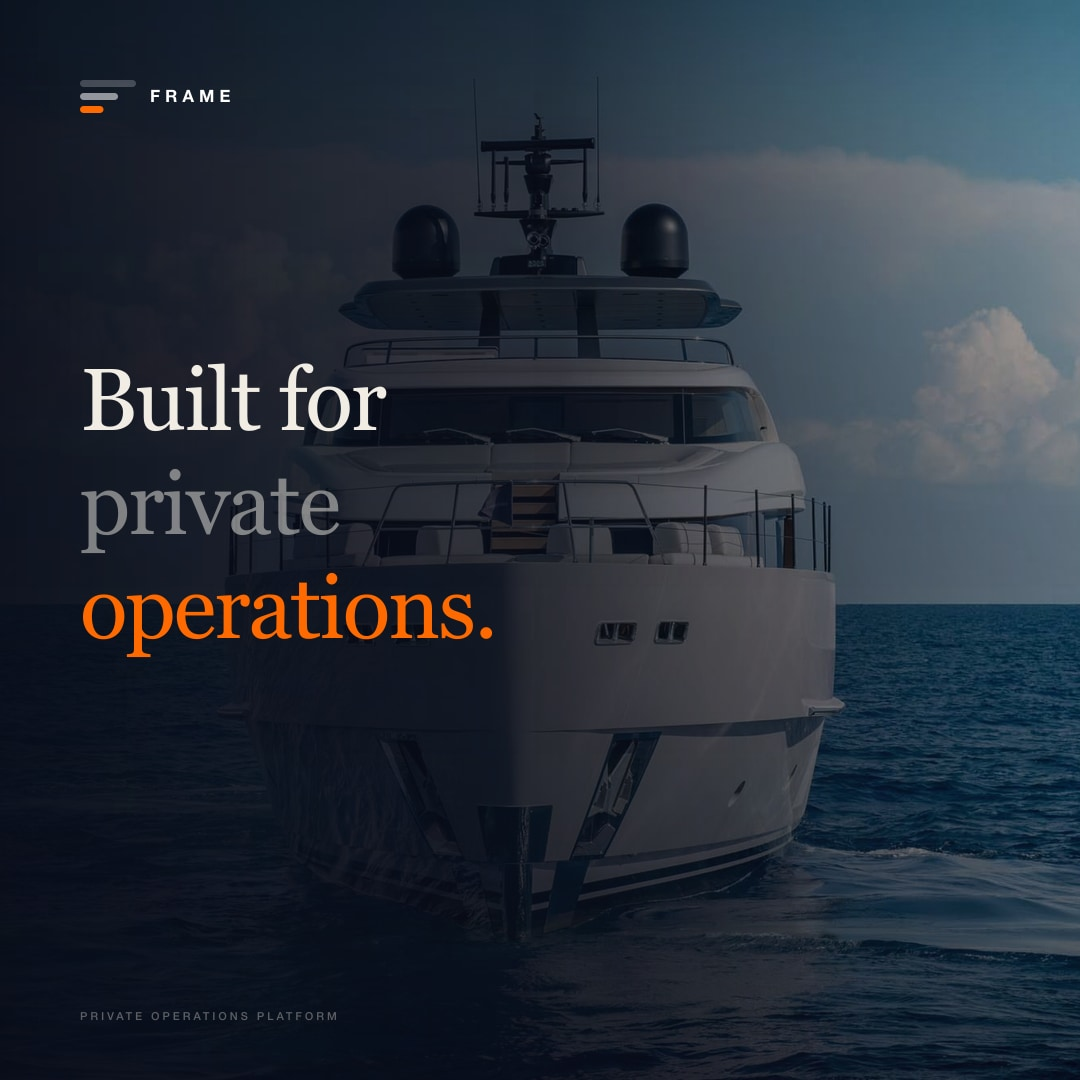
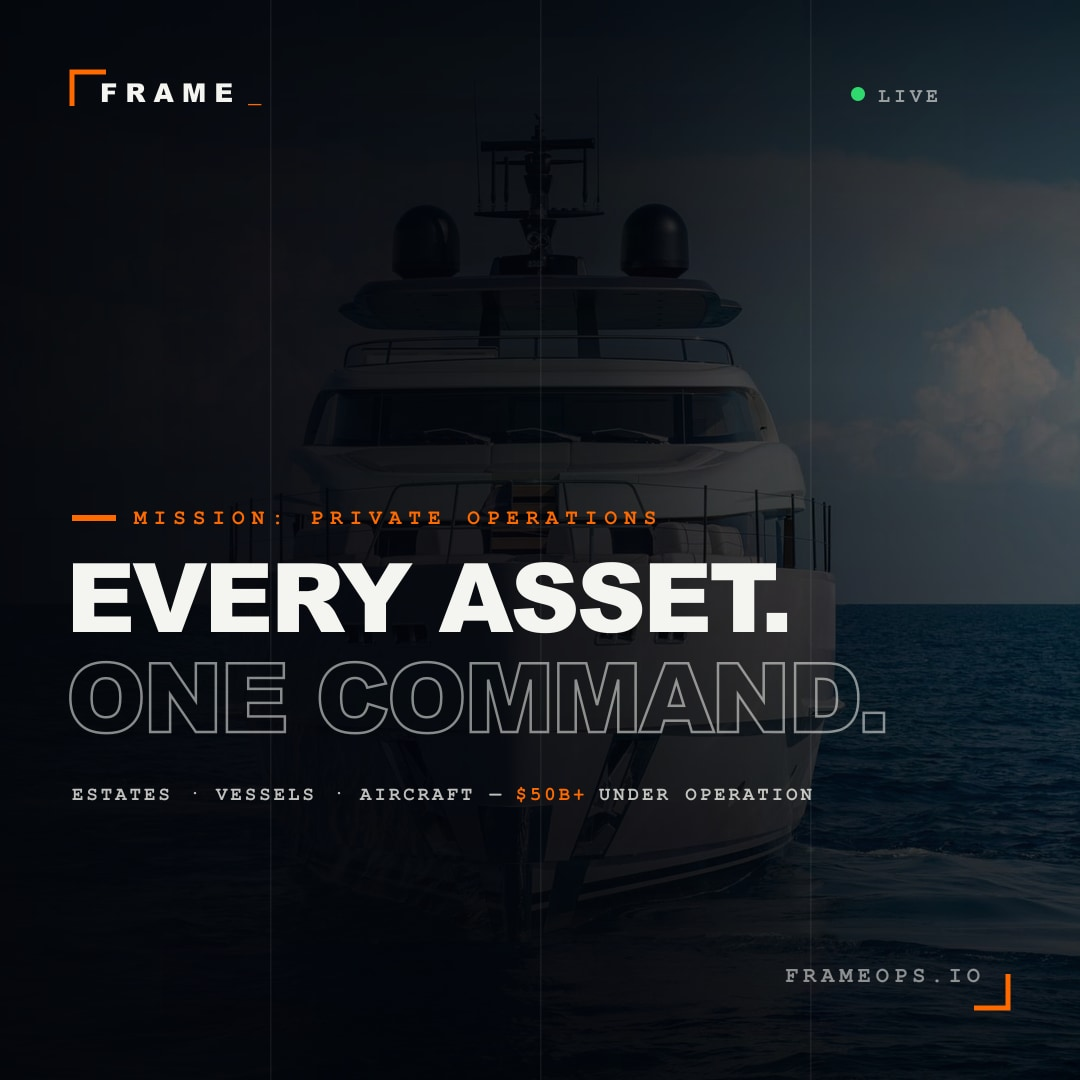
feat: mission control OG images — heavy type, ghost outline, HUD brackets

diff --git a/scripts/generate-og-images.js b/scripts/generate-og-images.js
@@ -1,8 +1,8 @@
 /**
- * Generates OG social images for frameops.io
+ * Generates OG social images for frameops.io — MISSION CONTROL edition
  *
  * Output:
- *   assets/og-image.jpg        1200×630  (Twitter/LinkedIn/Facebook)
+ *   assets/og-image.jpg        1200×630  (Twitter/LinkedIn/Facebook/iMessage)
  *   assets/og-image-square.jpg 1080×1080 (Instagram/profile)
  */
 
@@ -13,42 +13,39 @@ const path  = require('path');
 const ASSETS = path.join(__dirname, '..', 'assets');
 const PHOTO  = path.join(ASSETS, 'sd90-underway.jpeg');
 
-/* ── Brand colours ─────────────────────────────────────── */
-const INK    = '#0A0E1A';
-const PAPER  = '#F1EDE4';
+/* ── Brand colours (mission control) ───────────────────── */
+const VOID   = '#04060B';
+const WHITE  = '#F4F4F0';
 const ORANGE = '#FF6A00';
+const GREEN  = '#2FD96E';
 
-/* ── SVG overlay factory ────────────────────────────────
-   Produces the gradient + F-mark + headline text layer.
-   All measurements are in image-pixels so the result is
-   crisp at every output size.
-────────────────────────────────────────────────────────── */
-function makeSVG(w, h, layout) {
+const DISPLAY = `'Arial Black', 'Helvetica Neue', Arial, sans-serif`;
+const MONO    = `'Courier New', Courier, monospace`;
+
+/* ── SVG overlay factory ────────────────────────────────── */
+function makeSVG(w, h, L) {
   const {
-    mX, mY,             // F-mark top-left
-    mW,                 // F-mark full-bar width (px)
-    mH, mGap,          // bar height, inter-bar gap
-    brandX, brandY,    // FRAME wordmark baseline
-    brandSize,         // wordmark font-size
-    h1Y, h2Y, h3Y,    // headline line baselines
-    headSize,          // headline font-size
-    headTracking,      // headline letter-spacing
-    footY,             // footer label baseline
-    footSize,          // footer font-size
-  } = layout;
+    pad,                  // outer padding
+    eyebrowY, eyebrowSize,
+    h1Y, h2Y, headSize,   // headline baselines + size
+    subY, subSize,        // sub line
+    brandSize,
+  } = L;
+
+  const bracket = 34;     // HUD corner bracket arm length
+  const bStroke = 5;
 
   return Buffer.from(`<svg width="${w}" height="${h}" viewBox="0 0 ${w} ${h}" xmlns="http://www.w3.org/2000/svg">
   <defs>
-    <!-- left → right: deep dark to transparent (text legibility zone) -->
     <linearGradient id="gL" x1="0" y1="0" x2="1" y2="0">
-      <stop offset="0%"   stop-color="${INK}" stop-opacity="0.94"/>
-      <stop offset="52%"  stop-color="${INK}" stop-opacity="0.74"/>
-      <stop offset="100%" stop-color="${INK}" stop-opacity="0.15"/>
+      <stop offset="0%"   stop-color="${VOID}" stop-opacity="0.96"/>
+      <stop offset="55%"  stop-color="${VOID}" stop-opacity="0.80"/>
+      <stop offset="100%" stop-color="${VOID}" stop-opacity="0.30"/>
     </linearGradient>
-    <!-- top → bottom: subtle darkening at base -->
     <linearGradient id="gB" x1="0" y1="0" x2="0" y2="1">
-      <stop offset="0%"   stop-color="${INK}" stop-opacity="0"/>
-      <stop offset="100%" stop-color="${INK}" stop-opacity="0.46"/>
+      <stop offset="0%"   stop-color="${VOID}" stop-opacity="0.55"/>
+      <stop offset="35%"  stop-color="${VOID}" stop-opacity="0"/>
+      <stop offset="100%" stop-color="${VOID}" stop-opacity="0.62"/>
     </linearGradient>
   </defs>
 
@@ -56,38 +53,52 @@ function makeSVG(w, h, layout) {
   <rect width="${w}" height="${h}" fill="url(#gL)"/>
   <rect width="${w}" height="${h}" fill="url(#gB)"/>
 
-  <!-- ── F-mark (3 bars) ── -->
-  <rect x="${mX}" y="${mY}"              width="${mW}"          height="${mH}" rx="${mH/2}" fill="white"       fill-opacity="0.22"/>
-  <rect x="${mX}" y="${mY + mGap}"       width="${mW * 0.68}"   height="${mH}" rx="${mH/2}" fill="white"       fill-opacity="0.55"/>
-  <rect x="${mX}" y="${mY + mGap * 2}"   width="${mW * 0.42}"   height="${mH}" rx="${mH/2}" fill="${ORANGE}"/>
+  <!-- faint vertical gridlines -->
+  <rect x="${w * 0.25}" y="0" width="1.5" height="${h}" fill="white" fill-opacity="0.06"/>
+  <rect x="${w * 0.50}" y="0" width="1.5" height="${h}" fill="white" fill-opacity="0.06"/>
+  <rect x="${w * 0.75}" y="0" width="1.5" height="${h}" fill="white" fill-opacity="0.06"/>
 
-  <!-- ── FRAME wordmark ── -->
-  <text x="${brandX}" y="${brandY}"
-    font-family="'Helvetica Neue', Helvetica, Arial, sans-serif"
-    font-size="${brandSize}" font-weight="700" letter-spacing="${Math.round(brandSize * 0.28)}"
-    fill="white">FRAME</text>
+  <!-- HUD corner brackets -->
+  <path d="M ${pad} ${pad + bracket} V ${pad} H ${pad + bracket}" fill="none" stroke="${ORANGE}" stroke-width="${bStroke}"/>
+  <path d="M ${w - pad - bracket} ${h - pad} H ${w - pad} V ${h - pad - bracket}" fill="none" stroke="${ORANGE}" stroke-width="${bStroke}"/>
 
-  <!-- ── Headline ── -->
-  <text x="${mX}" y="${h1Y}"
-    font-family="Georgia, 'Times New Roman', serif"
-    font-size="${headSize}" font-weight="400" letter-spacing="${headTracking}"
-    fill="${PAPER}">Built for</text>
+  <!-- ── FRAME_ wordmark (top, inside bracket) ── -->
+  <text x="${pad + 28}" y="${pad + 30}"
+    font-family="${DISPLAY}" font-size="${brandSize}" font-weight="900" letter-spacing="${Math.round(brandSize * 0.30)}"
+    fill="${WHITE}">FRAME</text>
+  <text x="${pad + 28 + brandSize * 5.7}" y="${pad + 30}"
+    font-family="${DISPLAY}" font-size="${brandSize}" font-weight="900"
+    fill="${ORANGE}">_</text>
 
-  <text x="${mX}" y="${h2Y}"
-    font-family="Georgia, 'Times New Roman', serif"
-    font-size="${headSize}" font-weight="400" letter-spacing="${headTracking}"
-    fill="rgba(241,237,228,0.50)">private</text>
+  <!-- live dot, top right -->
+  <circle cx="${w - pad - 150}" cy="${pad + 22}" r="7" fill="${GREEN}"/>
+  <text x="${w - pad - 130}" y="${pad + 30}"
+    font-family="${MONO}" font-size="20" font-weight="bold" letter-spacing="4"
+    fill="rgba(244,244,240,0.6)">LIVE</text>
 
-  <text x="${mX}" y="${h3Y}"
-    font-family="Georgia, 'Times New Roman', serif"
-    font-size="${headSize}" font-weight="400" letter-spacing="${headTracking}"
-    fill="${ORANGE}">operations.</text>
+  <!-- ── eyebrow ── -->
+  <rect x="${pad}" y="${eyebrowY - 9}" width="44" height="6" fill="${ORANGE}"/>
+  <text x="${pad + 62}" y="${eyebrowY}"
+    font-family="${MONO}" font-size="${eyebrowSize}" font-weight="bold" letter-spacing="${Math.round(eyebrowSize * 0.32)}"
+    fill="${ORANGE}">MISSION: PRIVATE OPERATIONS</text>
 
-  <!-- ── Footer label ── -->
-  <text x="${mX}" y="${footY}"
-    font-family="'Helvetica Neue', Helvetica, Arial, sans-serif"
-    font-size="${footSize}" font-weight="600" letter-spacing="${Math.round(footSize * 0.28)}"
-    fill="rgba(241,237,228,0.36)">PRIVATE OPERATIONS PLATFORM</text>
+  <!-- ── headline ── -->
+  <text x="${pad - 6}" y="${h1Y}"
+    font-family="${DISPLAY}" font-size="${headSize}" font-weight="900" letter-spacing="-3"
+    fill="${WHITE}">EVERY ASSET.</text>
+
+  <text x="${pad - 6}" y="${h2Y}"
+    font-family="${DISPLAY}" font-size="${headSize}" font-weight="900" letter-spacing="-3"
+    fill="none" stroke="rgba(244,244,240,0.55)" stroke-width="2.5">ONE COMMAND.</text>
+
+  <!-- ── sub line ── -->
+  <text x="${pad}" y="${subY}"
+    font-family="${MONO}" font-size="${subSize}" font-weight="bold" letter-spacing="${Math.round(subSize * 0.18)}"
+    fill="rgba(244,244,240,0.78)">ESTATES &#183; VESSELS &#183; AIRCRAFT &#8212; <tspan fill="${ORANGE}">$50B+</tspan> UNDER OPERATION</text>
+
+  ${L.showUrl ? `<text x="${w - pad - 28}" y="${h - pad - 26}" text-anchor="end"
+    font-family="${MONO}" font-size="22" font-weight="bold" letter-spacing="5"
+    fill="rgba(244,244,240,0.55)">FRAMEOPS.IO</text>` : ''}
 </svg>`);
 }
 
@@ -95,20 +106,22 @@ function makeSVG(w, h, layout) {
 
 // 1200 × 630 — landscape OG card
 const LAYOUT_1200 = {
-  mX: 72,  mY: 68,  mW: 56, mH: 7, mGap: 13,
-  brandX: 142, brandY: 90, brandSize: 17,
-  headSize: 90, headTracking: -2,
-  h1Y: 232, h2Y: 338, h3Y: 444,
-  footY: 598, footSize: 11,
+  pad: 64,
+  brandSize: 26,
+  eyebrowY: 248, eyebrowSize: 21,
+  headSize: 108, h1Y: 366, h2Y: 478,
+  subY: 545, subSize: 21,
+  showUrl: false,
 };
 
 // 1080 × 1080 — square social card
 const LAYOUT_1080 = {
-  mX: 80,  mY: 80,  mW: 56, mH: 7, mGap: 13,
-  brandX: 150, brandY: 102, brandSize: 17,
-  headSize: 88, headTracking: -2,
-  h1Y: 430, h2Y: 534, h3Y: 638,
-  footY: 1020, footSize: 11,
+  pad: 72,
+  brandSize: 26,
+  eyebrowY: 524, eyebrowSize: 21,
+  headSize: 96, h1Y: 632, h2Y: 732,
+  subY: 800, subSize: 19,
+  showUrl: true,
 };
 
 /* ── Render ─────────────────────────────────────────────── */
@@ -117,6 +130,7 @@ async function render(outFile, w, h, layout) {
 
   await sharp(PHOTO)
     .resize({ width: w, height: h, fit: 'cover', position: 'center' })
+    .modulate({ brightness: 0.72, saturation: 0.82 })
     .composite([{ input: overlay, blend: 'over' }])
     .jpeg({ quality: 92, mozjpeg: true })
     .toFile(outFile);
